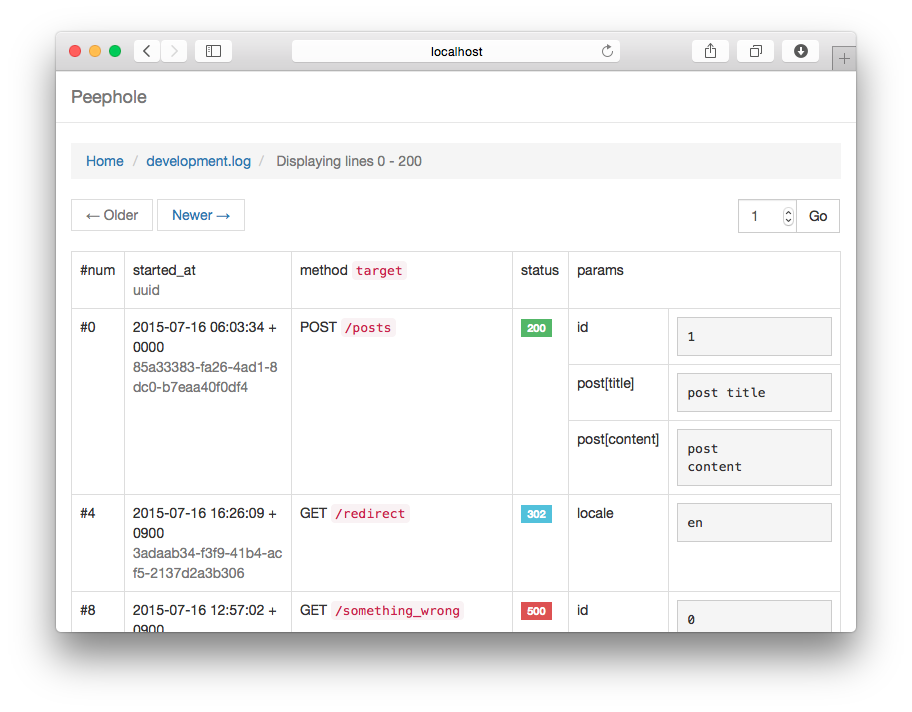
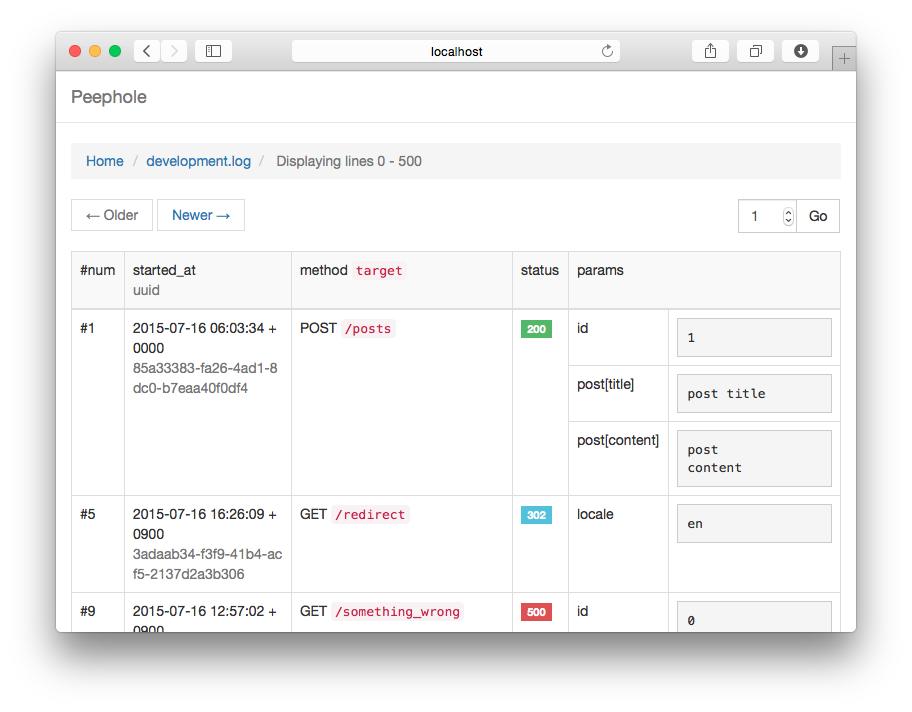
Fix style, Refactor

diff --git a/app/assets/stylesheets/peephole/peephole.css b/app/assets/stylesheets/peephole/peephole.css
@@ -10,6 +10,10 @@
   margin-bottom: 0;
 }
 
+#peephole thead tr {
+  background: #f9f9f9;
+}
+
 #peephole .navbar {
   border-left: 0;
   border-right: 0;

diff --git a/app/models/peephole/logline.rb b/app/models/peephole/logline.rb
@@ -30,13 +30,13 @@ module Peephole
             eof = false
             break
           end
-          parse(line, i, loglines, logmap)
+          parse(line, i + 1, loglines, logmap)
         end
         [loglines, eof]
       end
 
-      def parse(line, i, loglines, logmap)
-        logline = new(line, i)
+      def parse(line, num, loglines, logmap)
+        logline = new(line, num)
         case logline.type
         when TYPE::STARTED
           logmap[logline.uuid] = logline if logline.uuid.present?

diff --git a/spec/dummy/config/initializers/peephole.rb b/spec/dummy/config/initializers/peephole.rb
@@ -1,5 +1,5 @@
 Peephole.configure do |config|
-  config.paginates_per = 200
+  config.paginates_per = 500
   #config.peeper? do
   #  admin_user?
   #  authenticate_or_request_with_http_basic do |user, pass|

diff --git a/lib/peephole/version.rb b/lib/peephole/version.rb
@@ -1,3 +1,3 @@
 module Peephole
-  VERSION = "0.0.7"
+  VERSION = "0.0.8"
 end
